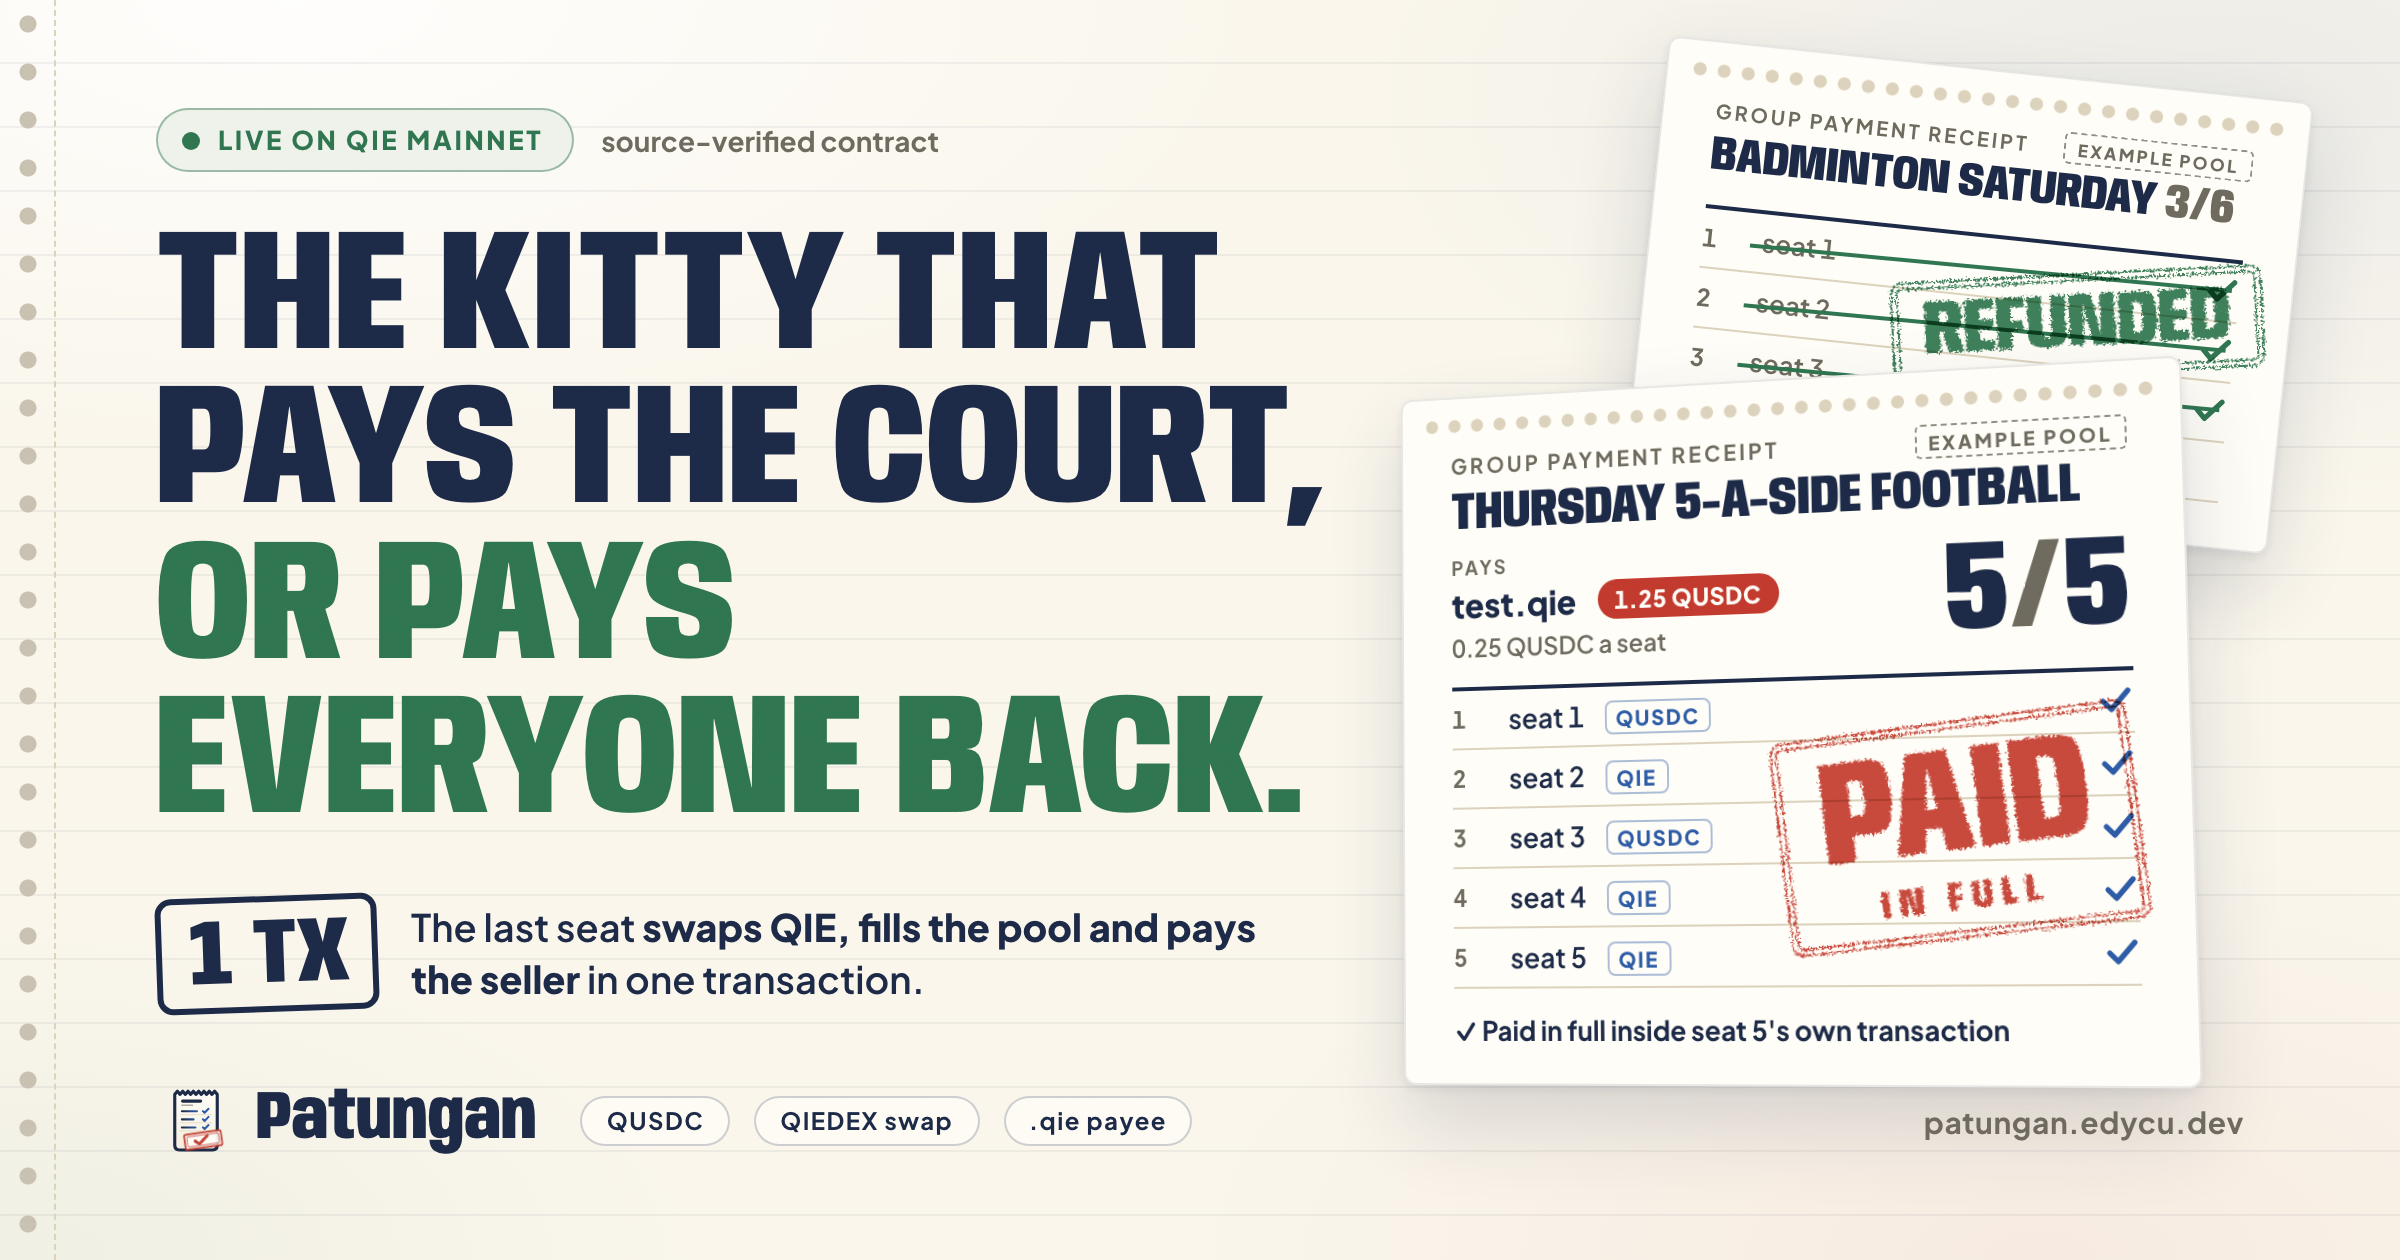
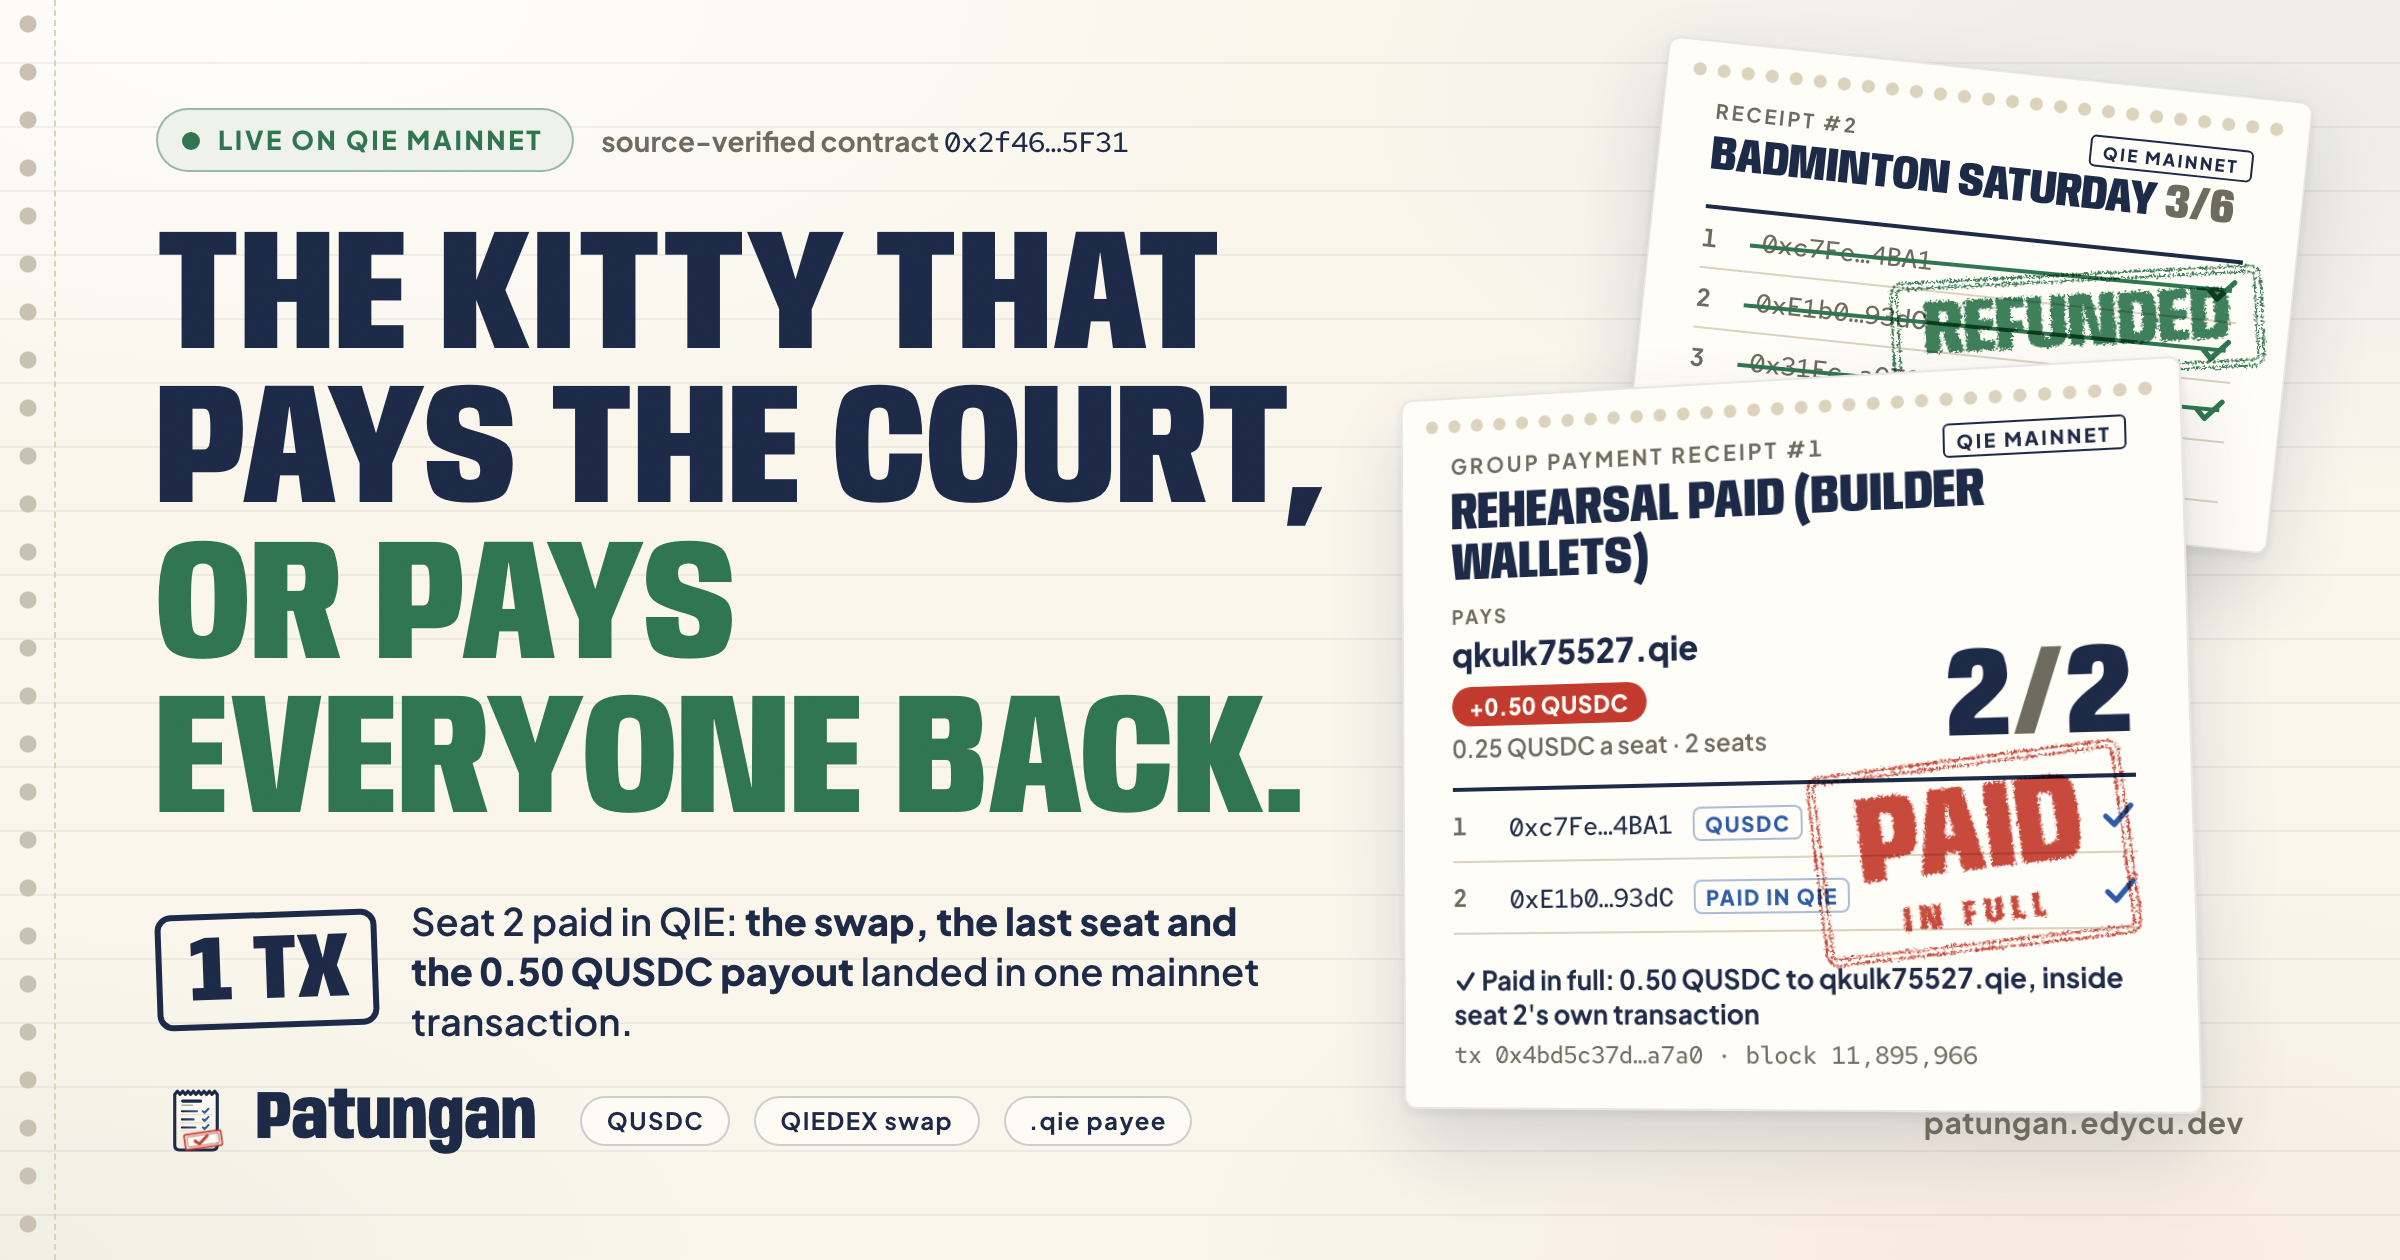
feat(web): the social card is pool #1's real mainnet receipt
The link preview showed an example five-seat pool. It now prints pool
#1's receipt from mainnet (2/2, +0.50 QUSDC to qkulk75527.qie, PAID IN
FULL, tx 0x4bd5c37d...a7a0, block 11,895,966) in front of pool #2's
refund (3/6, REFUNDED), both tagged QIE mainnet and titled as builder
wallets. og:image moves to ?v=20261114r3 on /, /judge, /pitch/ and the
app pages, and og:image:alt describes the real receipts.

diff --git a/web/app.html b/web/app.html
@@ -10,14 +10,14 @@
     <meta property="og:description" content="The last seat pays the payee in the same transaction. A missed deadline refunds everyone. Live on QIE mainnet." />
     <meta property="og:type" content="website" />
     <meta property="og:site_name" content="Patungan" />
-    <meta property="og:image" content="https://patungan.edycu.dev/og.png?v=20261114r2" />
+    <meta property="og:image" content="https://patungan.edycu.dev/og.png?v=20261114r3" />
     <meta property="og:image:width" content="1200" />
     <meta property="og:image:height" content="630" />
-    <meta property="og:image:alt" content="The kitty that pays the court, or pays everyone back: an example five-seat Patungan receipt stamped PAID IN FULL in front of an example six-seat receipt stamped REFUNDED" />
+    <meta property="og:image:alt" content="The kitty that pays the court, or pays everyone back: pool #1's real QIE mainnet receipt, two seats stamped PAID IN FULL with 0.50 QUSDC to qkulk75527.qie and its tx 0x4bd5c37d…a7a0, in front of pool #2's receipt stamped REFUNDED (builder wallets)" />
     <meta name="twitter:card" content="summary_large_image" />
     <meta name="twitter:title" content="Patungan · group payments on QIE" />
     <meta name="twitter:description" content="The last seat pays the payee in the same transaction. A missed deadline refunds everyone." />
-    <meta name="twitter:image" content="https://patungan.edycu.dev/og.png?v=20261114r2" />
+    <meta name="twitter:image" content="https://patungan.edycu.dev/og.png?v=20261114r3" />
     <link rel="icon" href="/favicon.ico" sizes="32x32" />
     <link rel="icon" type="image/svg+xml" href="/icon.svg" />
     <link rel="apple-touch-icon" href="/icon-512.png" />

diff --git a/web/judge.html b/web/judge.html
@@ -10,14 +10,14 @@
 <meta property="og:type" content="website" />
 <meta property="og:site_name" content="Patungan" />
 <meta property="og:url" content="https://patungan.edycu.dev/judge" />
-<meta property="og:image" content="https://patungan.edycu.dev/og.png?v=20261114r2" />
+<meta property="og:image" content="https://patungan.edycu.dev/og.png?v=20261114r3" />
 <meta property="og:image:width" content="1200" />
 <meta property="og:image:height" content="630" />
-<meta property="og:image:alt" content="The kitty that pays the court, or pays everyone back: an example five-seat Patungan receipt stamped PAID IN FULL in front of an example six-seat receipt stamped REFUNDED" />
+<meta property="og:image:alt" content="The kitty that pays the court, or pays everyone back: pool #1's real QIE mainnet receipt, two seats stamped PAID IN FULL with 0.50 QUSDC to qkulk75527.qie and its tx 0x4bd5c37d…a7a0, in front of pool #2's receipt stamped REFUNDED (builder wallets)" />
 <meta name="twitter:card" content="summary_large_image" />
 <meta name="twitter:title" content="Patungan · for judges" />
 <meta name="twitter:description" content="The last seat pays the seller in the same transaction; a missed deadline refunds everyone. Live on QIE mainnet." />
-<meta name="twitter:image" content="https://patungan.edycu.dev/og.png?v=20261114r2" />
+<meta name="twitter:image" content="https://patungan.edycu.dev/og.png?v=20261114r3" />
 <link rel="icon" href="/favicon.ico" sizes="32x32" />
 <link rel="icon" type="image/svg+xml" href="/icon.svg" />
 <link rel="apple-touch-icon" href="/icon-512.png" />
